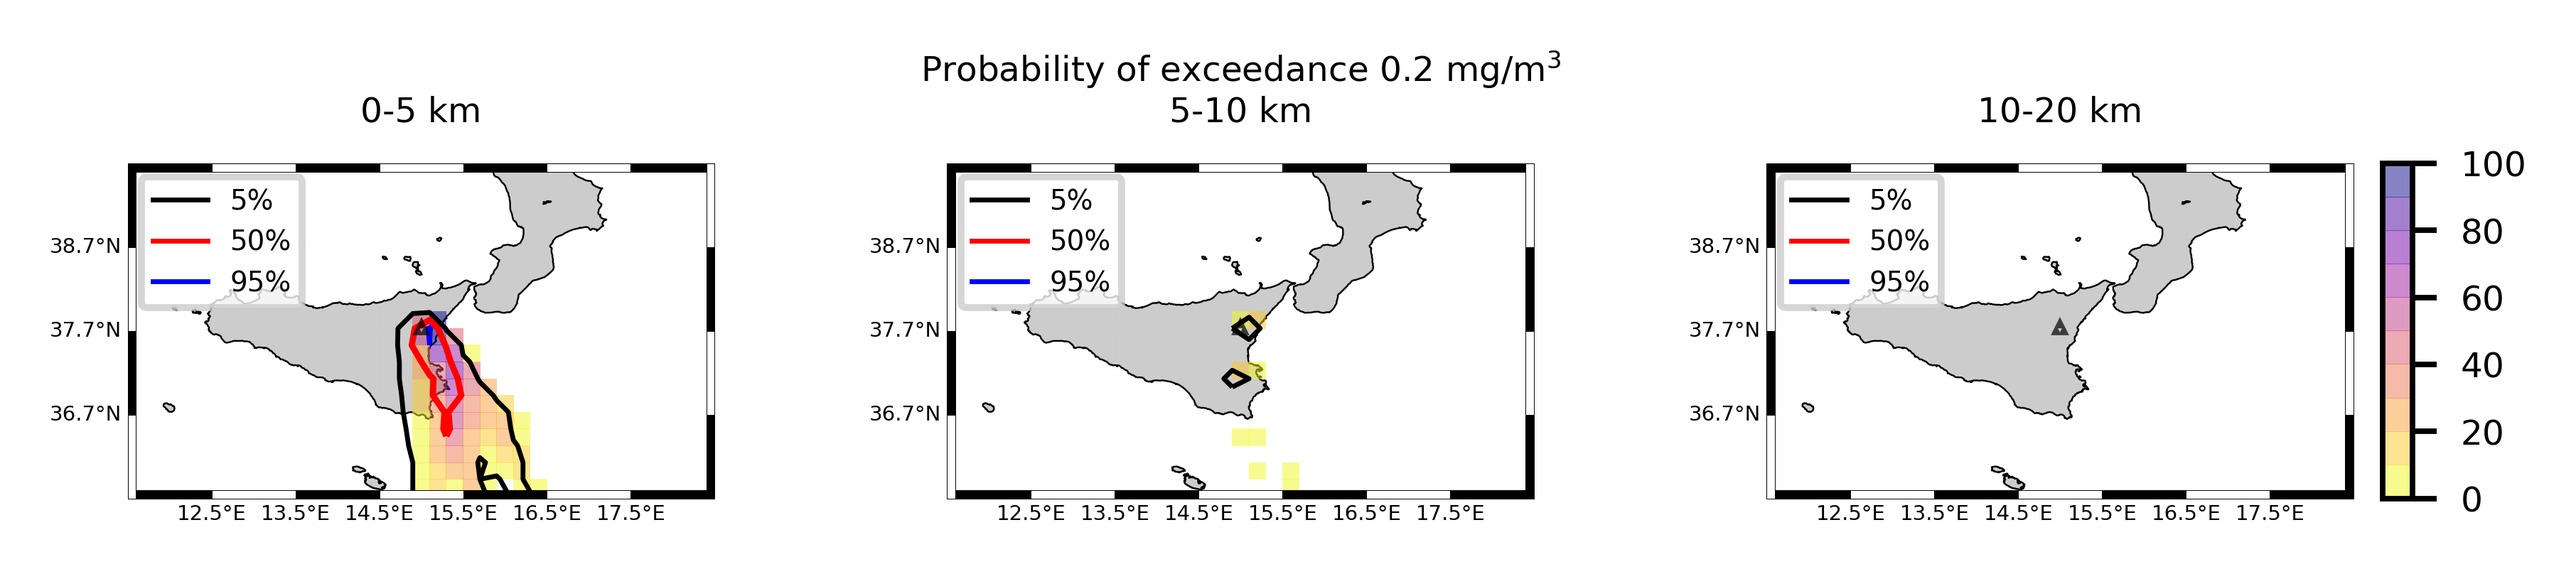
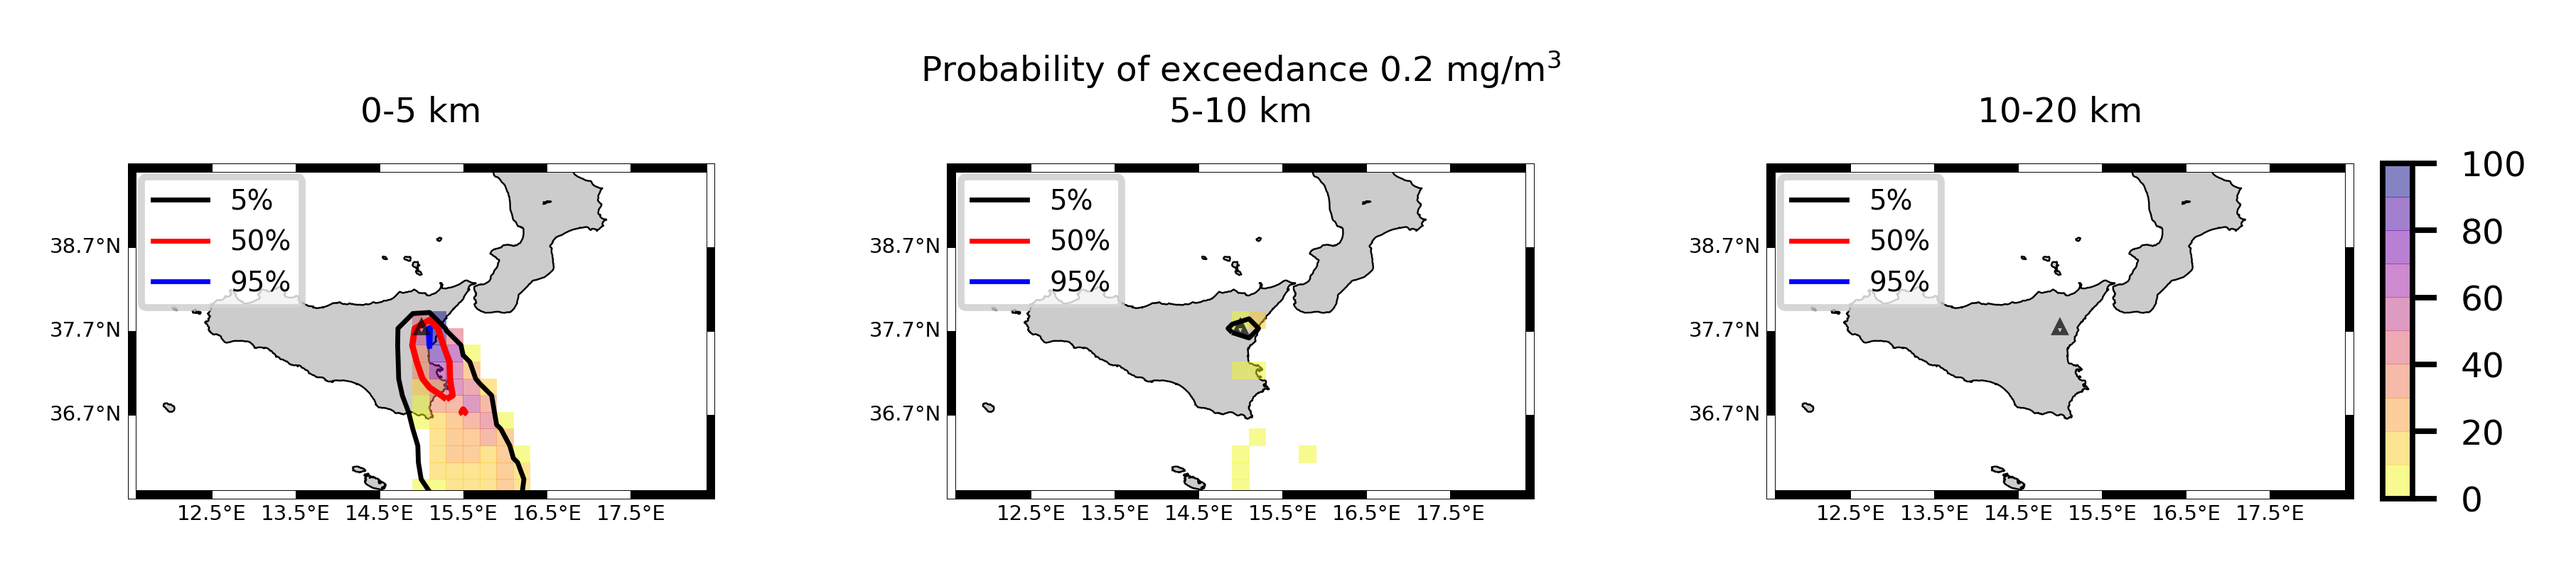
upload results

diff --git a/FORECAST_RESULTS/20210216_1631Z/README.md b/FORECAST_RESULTS/20210216_1631Z/README.md
@@ -8,6 +8,7 @@ Contents
 * [Forecast products](#forecast-products)
 	* [Forecast at 2021-02-16 17:30 Z from RED VONA issued at 20210216_1631Z](#forecast-at-2021-02-16-1730-z-from-red-vona-issued-at-20210216_1631z)
 	* [Forecast at 2021-02-16 18:30 Z from RED VONA issued at 20210216_1631Z](#forecast-at-2021-02-16-1830-z-from-red-vona-issued-at-20210216_1631z)
+	* [Forecast at 2021-02-16 19:30 Z from RED VONA issued at 20210216_1631Z](#forecast-at-2021-02-16-1930-z-from-red-vona-issued-at-20210216_1631z)
 
 # Forecast products
 
@@ -90,6 +91,46 @@ Contents
 
 ### Atmosphere 2021-02-16 18:30 Z
   
-![](./figures/probability_air_2021_02_16_1830_grid_2_conclev_1_2.png)  
+![](./figures/probability_air_2021_02_16_1830_grid_2_conclev_1_2.png)
+## Forecast at 2021-02-16 19:30 Z from RED VONA issued at 20210216_1631Z
+  
+
+|Eruption start [Z]|Eruption end [Z]|Forecast time [Z]|Column height asl [m]|
+| :--- | :--- | :--- | :--- |
+|2021-02-16 16:30:00|Ongoing|2021-02-16 19:30:00|6000 ± 500 - from VONA|
+  
+  
+
+|Percentile|MER [kg/s¹]|Mass air [kg]|Mass air nested dom. [kg]|Mass grd [kg]|Mass grd nested dom. [kg]|
+| :--- | :--- | :--- | :--- | :--- | :--- |
+|5th|1.71e+04|4.11e+07|2.03e+07|4.03e+08|3.60e+08|
+|50th|7.86e+04|1.30e+08|9.29e+07|7.77e+08|7.66e+08|
+|95th|1.74e+05|2.36e+08|1.86e+08|1.40e+09|1.28e+09|
+  
+
+### Ground Nested Domain 2021-02-16 19:30 Z
+  
+![](./figures/probability_grd_2021_02_16_1930_grid_1_3.png)  
+  
+  
+  
+  
+  
+  
+
+|Location|Ground load [kg/m²] 5th perc|Ground load [kg/m²] 50th perc|Ground load [kg/m²] 95th perc|
+| :--- | :--- | :--- | :--- |
+|Catania AP (1)|2.13e-03|3.28e-01|2.20e+00|
+|Nicolosi (2)|7.61e-01|3.05e+00|9.43e+00|
+|Zafferana (3)|0.00e+00|7.83e-05|1.54e-03|
+|Linguaglossa (4)|0.00e+00|0.00e+00|0.00e+00|
+|Randazzo (5)|0.00e+00|0.00e+00|0.00e+00|
+|Bronte (6)|0.00e+00|0.00e+00|0.00e+00|
+|Biancavilla (7)|0.00e+00|0.00e+00|0.00e+00|
+  
+
+### Atmosphere 2021-02-16 19:30 Z
+  
+![](./figures/probability_air_2021_02_16_1930_grid_2_conclev_1_3.png)  
 Go to [Supplementary page](Supplementary_page.md)  
 Go to [Main directory](https://github.com/federicapardini/Real_time_ash_forecast)
